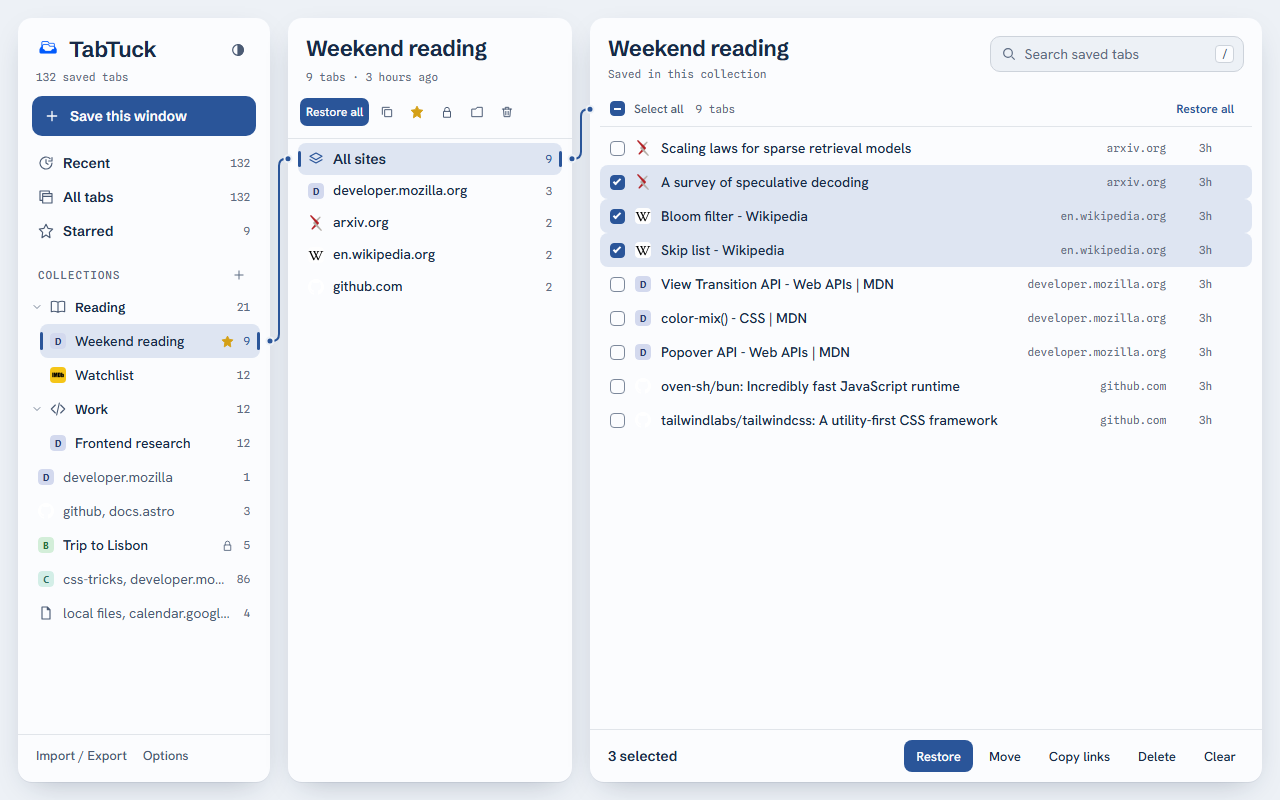
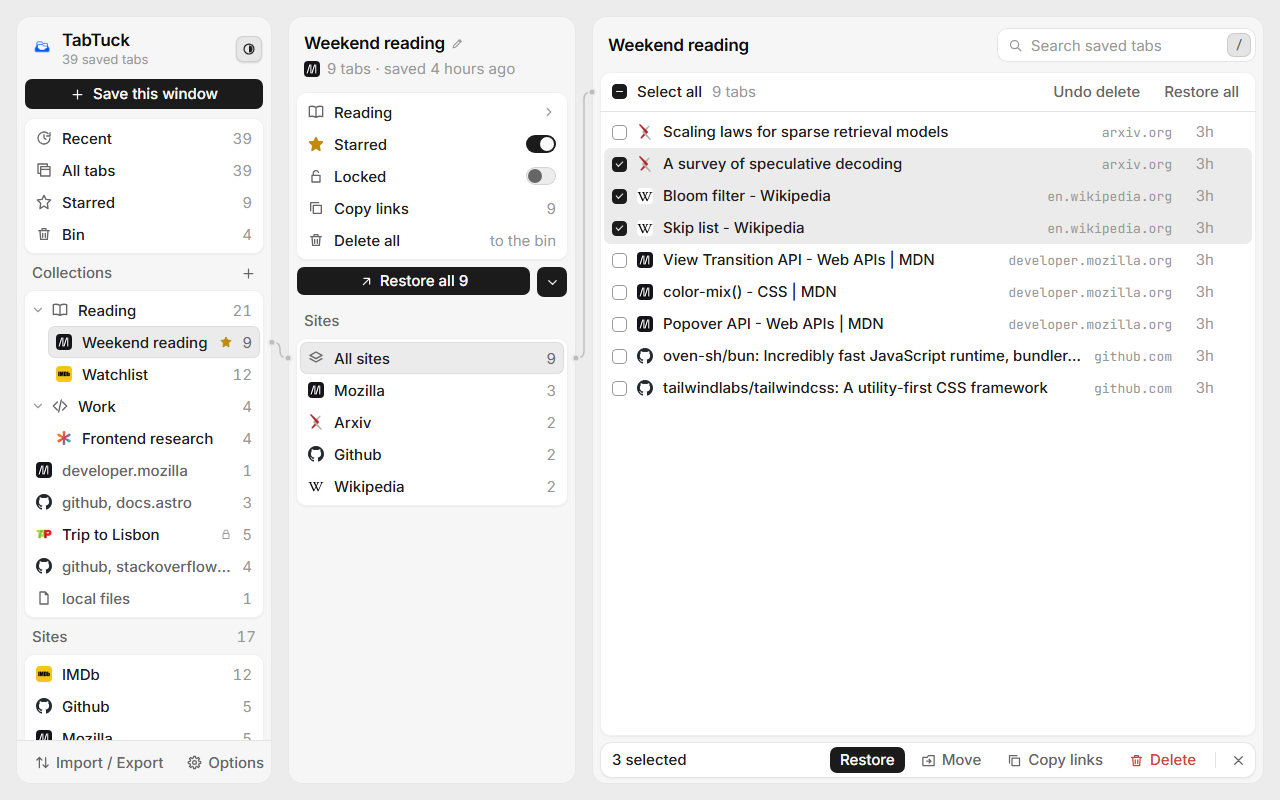
Update the Chrome Web Store images for the redesigned manager (#18)
Retake the four screenshots from the current manager, add a fifth for the Bin, and redraw the small promo tile to match the nested-tray design.

diff --git a/store/listing.md b/store/listing.md
@@ -44,7 +44,7 @@ Source code: https://github.com/Subhransu-De/TabTuck
 
 **Store icon (128×128):** `src/icons/128.png`
 
-**Screenshots (1280×800):** `screenshot-1-recent.png`, `screenshot-2-collection.png`, `screenshot-3-dark.png`, `screenshot-4-folders.png`
+**Screenshots (1280×800):** `screenshot-1-recent.png`, `screenshot-2-collection.png`, `screenshot-3-dark.png`, `screenshot-4-folders.png`, `screenshot-5-bin.png`
 
 **Small promo tile (440×280):** `promo-small-440x280.png`
 
